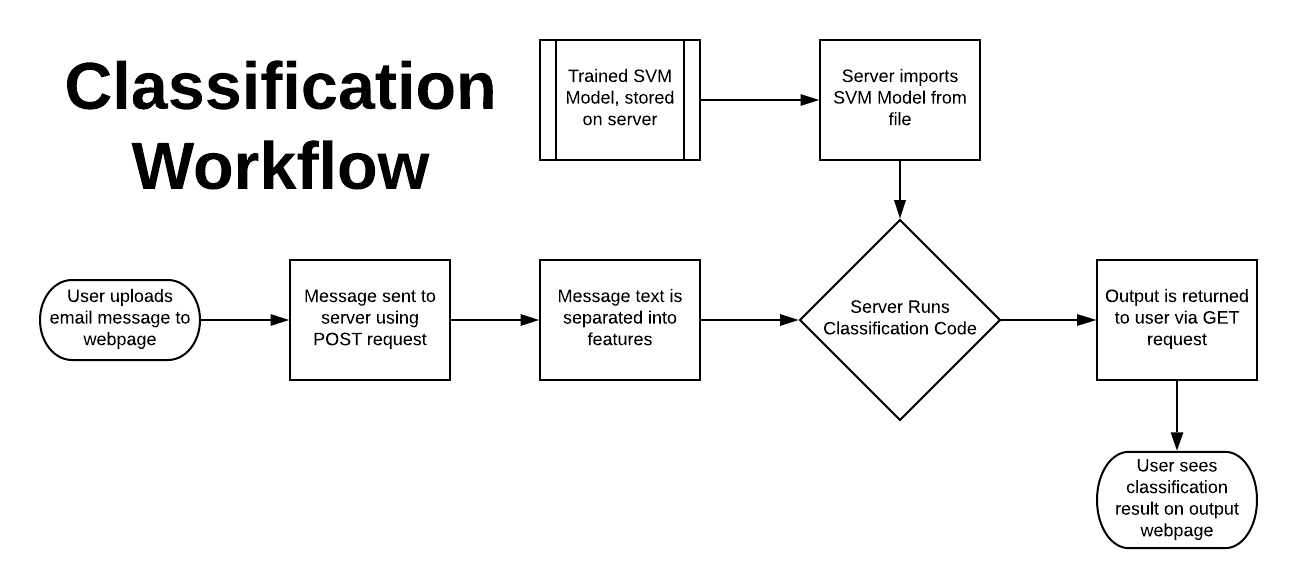
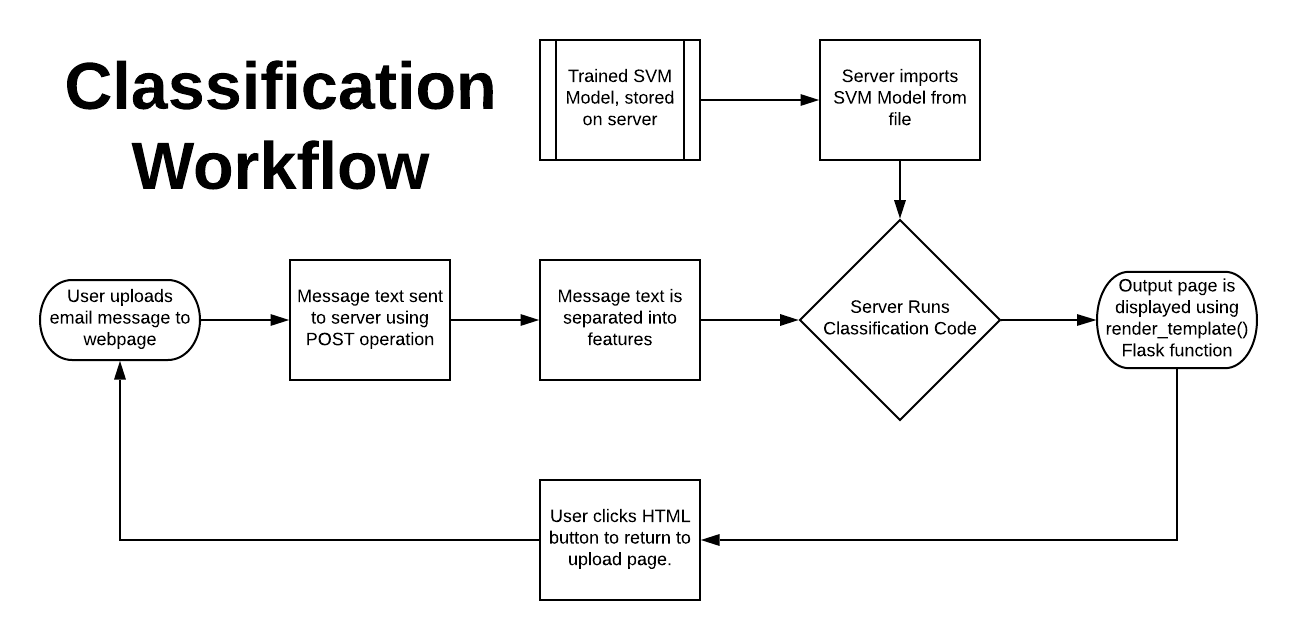
update

diff --git a/project-report/report.md b/project-report/report.md
@@ -108,8 +108,18 @@ reason, we decided to use the SVM model for our classification method.
 
 The general workflow is as follows:
 ![Classification Flowchart](images/classification_workflow.png)
-:new_moon_with_face::full_moon_with_face::sun_with_face:
 
+### The server
+
+We used Swagger OpenAPI to create our server. This tool lets us conveniently
+define our server's endpoints and REST API operations in a concise YAML
+file. Our server has one endpoint called 'upload', which acts as a REST POST
+operation. 
+
+To get the server running, download and run the provided Dockerfile. This will
+unpack and generate the necessary requirements. Running the server in a
+container such as Docker is beneficial because it will not interfere with the
+host system.
 
 ## Sources
 https://staysafeonline.org/stay-safe-online/online-safety-basics/spam-and-phishing/
